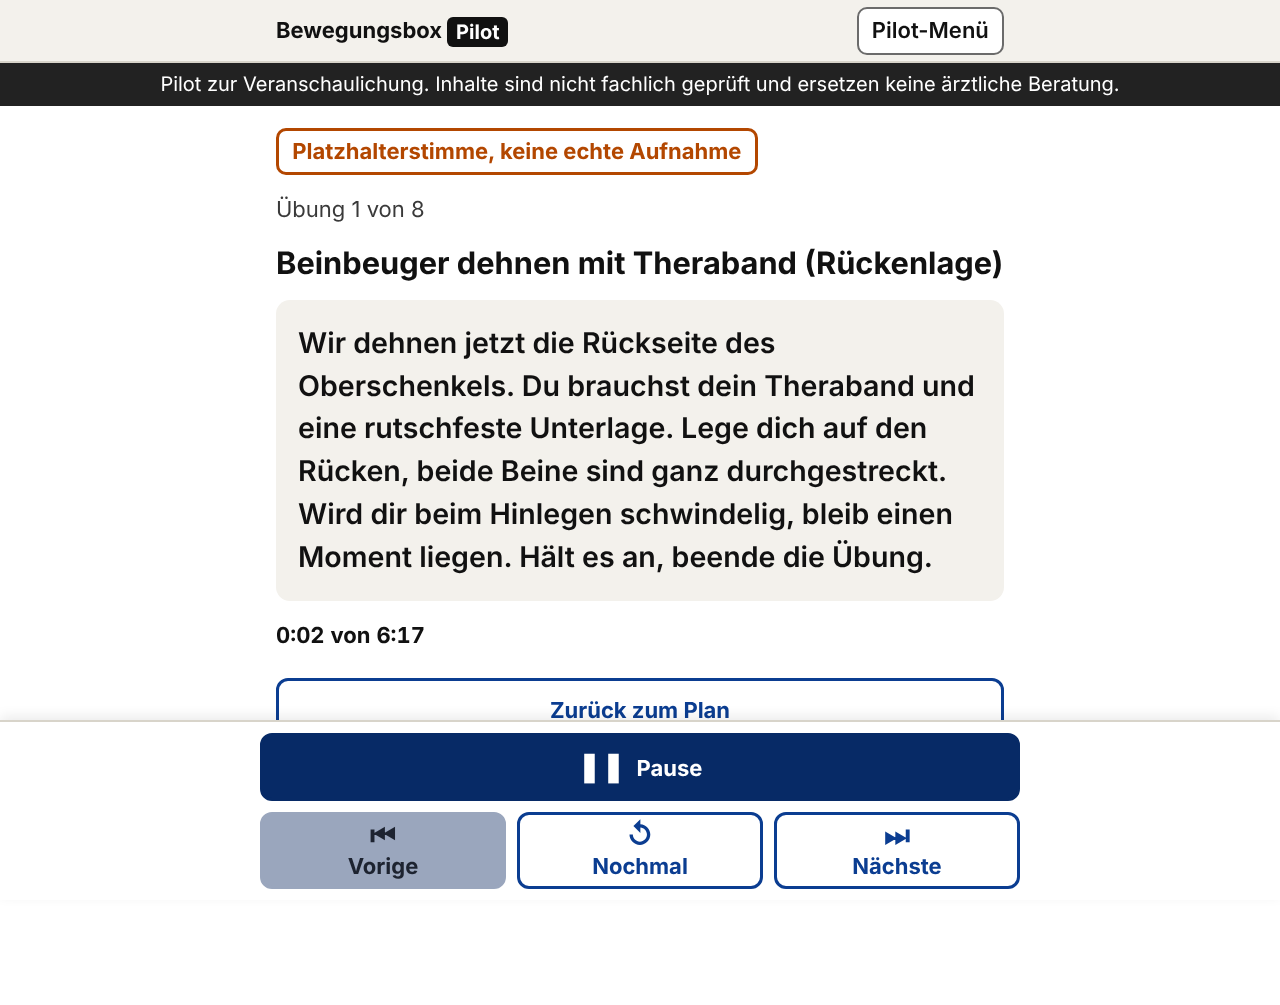
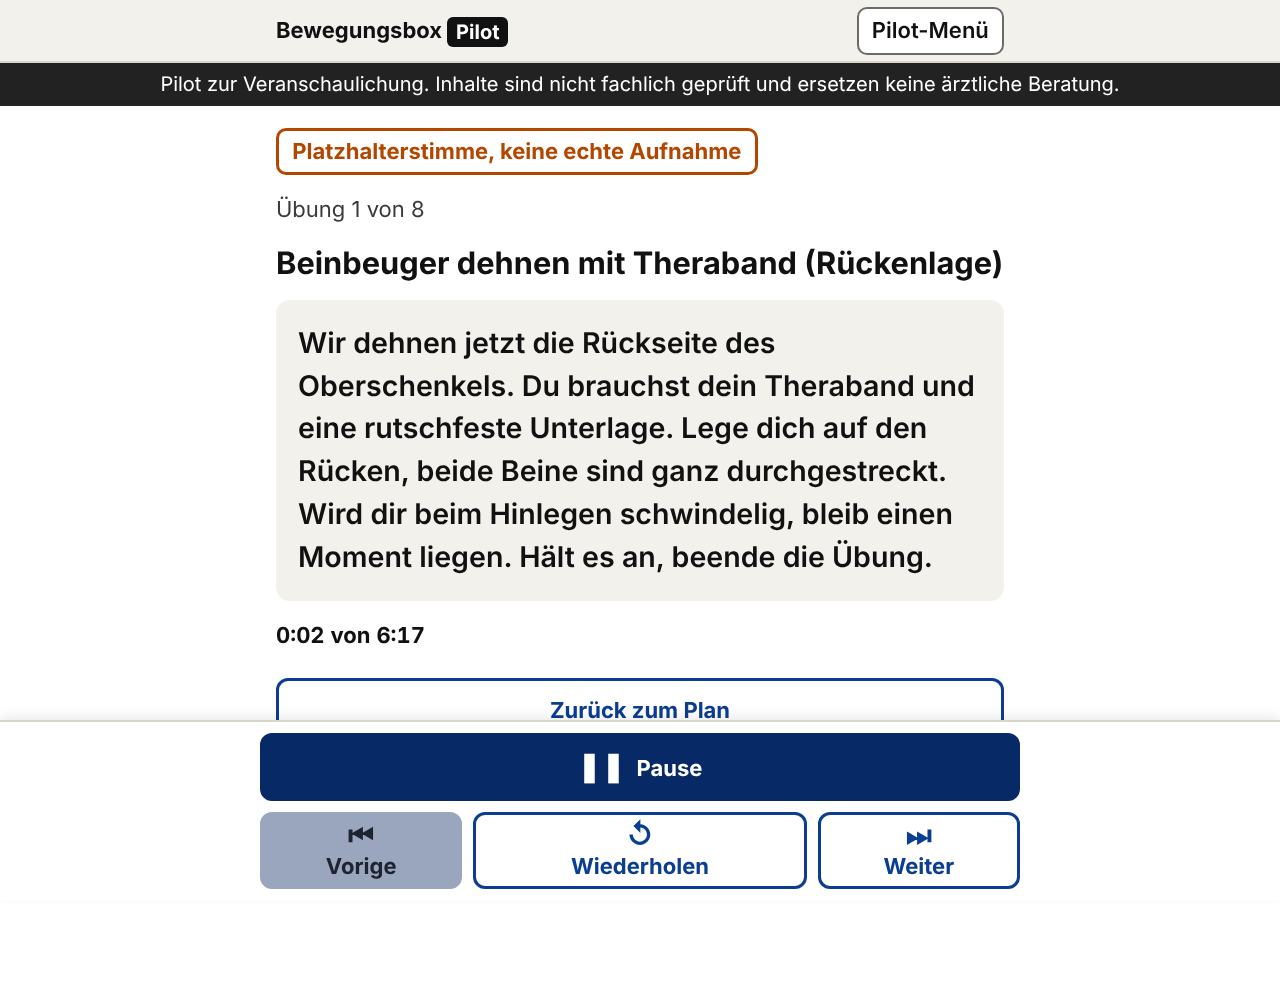
Texte wieder nach Auftrag: "Rückruf nötig" und Player-Tasten
- Orange heißt wieder "Rückruf nötig", wie im Auftrag verlangt.
- Player-Tasten: Pause, Weiter, Wiederholen (dazu Vorige). Nach einer Pause
  heißt der Knopf "Fortsetzen", damit er nicht mit "Weiter" verwechselt wird.

Claude-Session: https://claude.ai/code/session_015nGy9VMXTxbGQvv21F7ged

diff --git a/pilot/app.js b/pilot/app.js
@@ -40,7 +40,7 @@
     orange: {
       wort: "Orange",
       zeichen: "☎",
-      kurz: "Erst ein kurzes Gespräch.",
+      kurz: "Rückruf nötig.",
       lang: "Bevor es einen Plan gibt, möchte Lando kurz mit dir sprechen und ein paar Fragen klären.",
     },
     rot: {
@@ -1138,7 +1138,7 @@
     const symbol = (z) => el("span", { klasse: "symbol", "aria-hidden": "true", text: z });
     const spielKnopf = player.laeuft
       ? el("button", { type: "button", klasse: "knopf knopf-spielen", id: "spielen", onclick: anhalten }, symbol("❚❚"), "Pause")
-      : el("button", { type: "button", klasse: "knopf knopf-spielen", id: "spielen", onclick: abspielen }, symbol("▶"), player.vergangen || player.s || player.u ? "Weiter abspielen" : "Abspielen");
+      : el("button", { type: "button", klasse: "knopf knopf-spielen", id: "spielen", onclick: abspielen }, symbol("▶"), player.vergangen || player.s || player.u ? "Fortsetzen" : "Abspielen");
     const leiste = el(
       "div",
       { klasse: "aktionsleiste player-leiste" },
@@ -1164,7 +1164,7 @@
             springeZuUebung(player.u, false);
             if (!player.laeuft) zeichnePlayer();
           },
-        }, symbol("↺"), "Nochmal"),
+        }, symbol("↺"), "Wiederholen"),
         el("button", {
           type: "button",
           klasse: "knopf knopf-zweit",
@@ -1174,7 +1174,7 @@
             springeZuUebung(player.zwischenpause ? player.u : player.u + 1, false);
             zeichnePlayer();
           },
-        }, symbol("⏭"), "Nächste")
+        }, symbol("⏭"), "Weiter")
       )
     );
     const aktiv = document.activeElement;

diff --git a/pilot/tests/browser.test.js b/pilot/tests/browser.test.js
@@ -205,7 +205,7 @@ async function lauf(browser, breite, hoehe, kennung) {
   pruefe(pauseSichtbar, `${kennung} Player: Pause ist nicht ohne Scrollen sichtbar`);
   await bild(seite, mitBildern("04_player.png"));
   await seite.locator("#spielen").click();
-  pruefe((await seite.locator("#spielen").innerText()).includes("Weiter abspielen"), `${kennung} Player: Pause wirkt nicht`);
+  pruefe((await seite.locator("#spielen").innerText()).includes("Fortsetzen"), `${kennung} Player: Pause wirkt nicht`);
   await seite.locator("#naechste").click();
   const titel2 = await seite.locator("h1").innerText();
   pruefe(titel1 !== titel2, `${kennung} Player: Nächste Übung wechselt die Übung nicht`);

diff --git a/pilot/app.css b/pilot/app.css
@@ -469,7 +469,7 @@ code { font-size: 20px; background: #eee; padding: 0 0.2rem; border-radius: 4px;
 .zeit { font-variant-numeric: tabular-nums; font-weight: 700; }
 .player-knoepfe {
   display: grid !important;
-  grid-template-columns: repeat(3, minmax(0, 1fr));
+  grid-template-columns: minmax(0, 0.85fr) minmax(0, 1.4fr) minmax(0, 0.85fr);
   gap: 0.5rem;
 }
 .player-knoepfe .knopf { min-height: 64px; padding: 0.3rem; line-height: 1.2; }

diff --git a/pilot/README.md b/pilot/README.md
@@ -9,7 +9,7 @@ Adresse (nach dem Einrichten von GitHub Pages): https://lando7506.github.io/bewe
 1. **Fragebogen:** Alle Fragen aus `audio_system/regeln/fragebogen.json` (Entwurf 4), nach Thema auf etwa 20 Bildschirme gruppiert (`darstellung.js`). Folgefragen erscheinen direkt unter ihrer Frage. Bedingungen, Körperkarte (R0), Schmerzblock (P0 bis P3) und Ziele (Z3) wirken wie in den Daten. Unten gibt es eine feste Leiste mit Zurück und Weiter, vor der Auswertung eine Übersicht „Bitte kurz prüfen“ mit „Ändern“. Antworten bleiben beim Zurückgehen erhalten. Lange Fragen erscheinen als Liste, der Wortlaut bleibt dabei unverändert.
 2. **Ampel:** Rot, Orange, Gelb oder Grün nach festen Regeln, ohne KI. Die Logik in `logik.js` ist ein Nachbau von `auswerten` aus `fragebogen.py`. Bei Rot gibt es keinen Plan, bei Orange heißt es „Rückruf nötig“, bei Gelb und Grün gibt es einen Plan. Unter „Für Lando und die Fachperson“ steht, wie die Ampel zustande kam.
 3. **Plan:** Nachbau von `erstelle_plan` aus `regeln.py`. Pro Übung siehst du Titel, Entscheidung (frei, Hinweis, Warnung, ersetzt, gesperrt), Wiederholungen samt Herkunft (Niveau A 8, B und C 10) und Dauer.
-4. **Abspielen:** Ein einfacher Player liest die Übungen mit der Sprachausgabe des Browsers vor. Er ist sichtbar als „Platzhalterstimme, keine echte Aufnahme“ gekennzeichnet. Es gibt große Knöpfe für Abspielen, Pause, Übung wiederholen und Nächste Übung. Der Text läuft mit, so geht es auch ohne Ton.
+4. **Abspielen:** Ein einfacher Player liest die Übungen mit der Sprachausgabe des Browsers vor. Er ist sichtbar als „Platzhalterstimme, keine echte Aufnahme“ gekennzeichnet. Es gibt große Knöpfe für Abspielen, Pause, Weiter (nächste Übung), Wiederholen und Vorige. Der Text läuft mit, so geht es auch ohne Ton.
 5. **Beispiele:** Oben im Menü lassen sich alle Testprofile aus `profile/testantworten.json` laden, je Ampelfarbe gibt es eins vorne.
 
 ## Was bewusst fehlt

diff --git a/pilot/ux-tests/ZUSAMMENFASSUNG.md b/pilot/ux-tests/ZUSAMMENFASSUNG.md
@@ -36,7 +36,7 @@ Vier KI-Agenten haben den Piloten per Klick im Browser durchgespielt und Kritik 
 | Ampel: Notfallhinweis zuerst, eigene Zeichen statt Buchstaben (G für Grün und Gelb), „Darauf wird Rücksicht genommen“ | Verständlicher |
 | Orange: „So geht es weiter“ mit dem Hinweis, wer angerufen wird. Fehlt die Telefonnummer, gibt es einen Knopf zum Eintragen | Sabines wichtigster Punkt |
 | Plan: Gesamtdauer und Abspielen oben, je Übung „Wegen: …“ | Kein langes Scrollen bis zum Abspielen |
-| Player: feste Leiste mit Pause, Vorige, Nochmal, Nächste | Pause liegt nicht mehr unter dem Bildrand |
+| Player: feste Leiste mit Pause, Vorige, Wiederholen, Weiter | Pause liegt nicht mehr unter dem Bildrand |
 | E-Mail- und Telefonfeld mit passender Tastatur, eine falsche Eingabe wird nicht mehr gelöscht | Schneller zu tippen |
 | Warnung vor dem Schließen des Fensters, wenn schon Antworten da sind | Kein versehentlicher Verlust |
 
